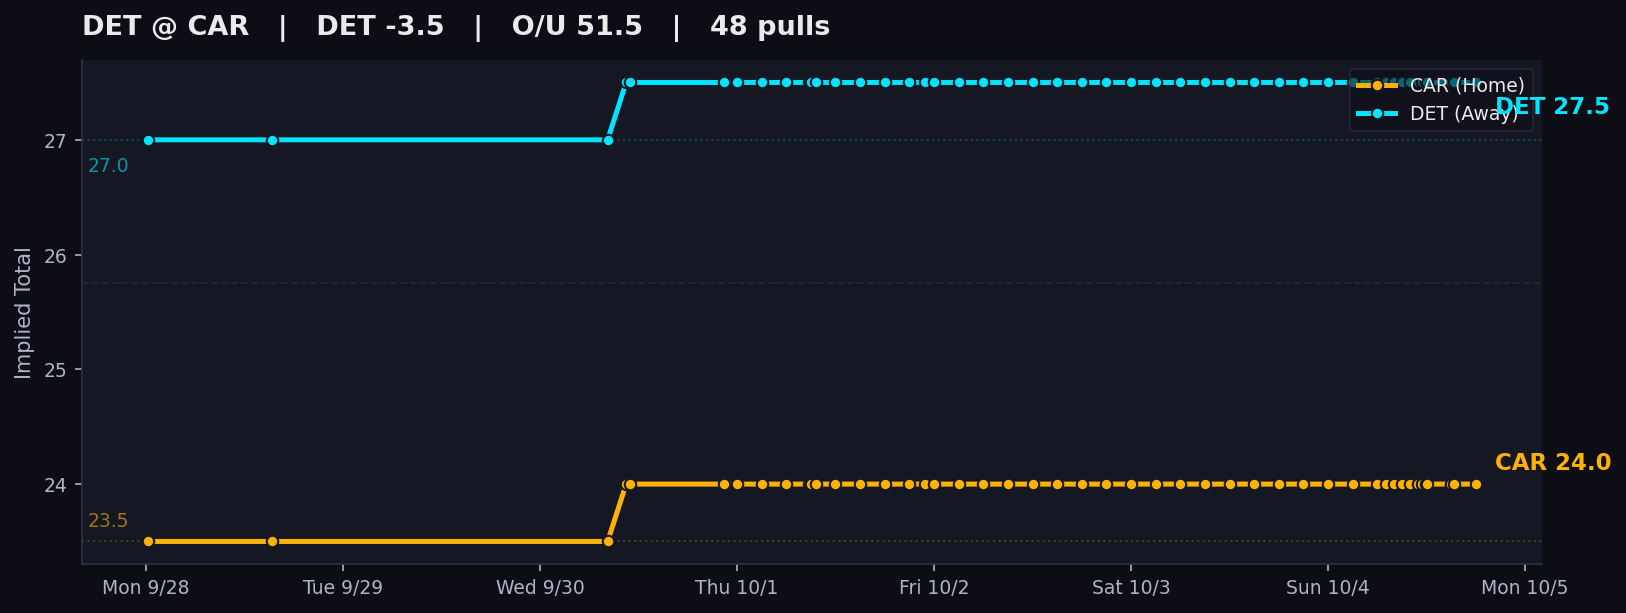
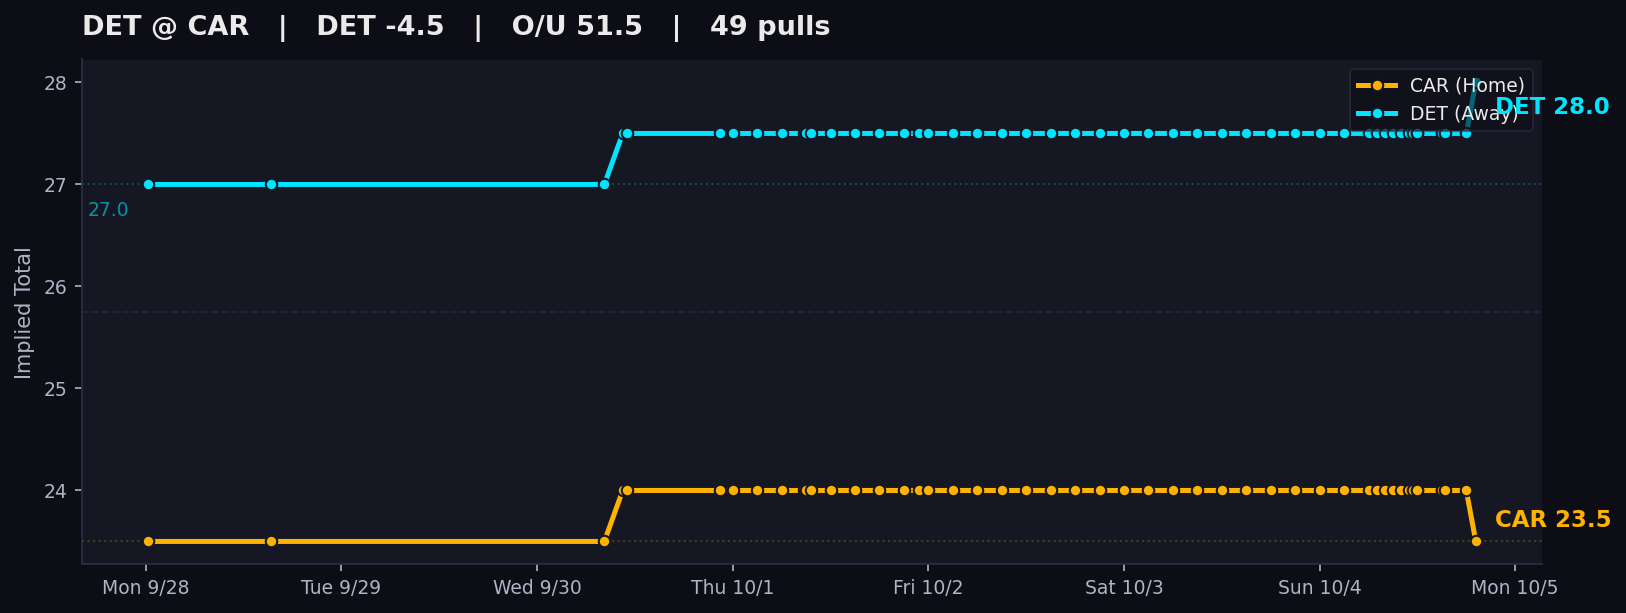
auto: local tracker sync

diff --git a/charts/index.html b/charts/index.html
@@ -311,7 +311,7 @@
     </div>
     <p class='sub'>
       DraftKings main lines &middot; Pinnacle cross-check &middot; Updated by the local Mac tracker<br>
-      Page rendered Sun Oct 04, 2026 6:00 PM CDT &middot; 752 valid chart dots &middot; 901 total pull attempts
+      Page rendered Sun Oct 04, 2026 7:10 PM CDT &middot; 754 valid chart dots &middot; 903 total pull attempts
       <span class='legend-box'>
         <span class='dot-teal'>● Away implied total</span>
         <span class='dot-amber'>● Home implied total</span>
@@ -324,9 +324,9 @@
     </details>
   </header>
 
-  <div id='feed-banner' class='alert-banner healthy' data-banner-kind='healthy' data-feed-ts='2026-10-04T23:00:05.924154+00:00' data-feed-ts-label='Sun Oct 04, 6:00 PM CDT'>
+  <div id='feed-banner' class='alert-banner healthy' data-banner-kind='healthy' data-feed-ts='2026-10-05T00:10:01.073178+00:00' data-feed-ts-label='Sun Oct 04, 7:10 PM CDT'>
             <span class='status-dot'></span>
-            <b>Feed Healthy:</b> All 2 open markets updated. 14 games have started and is showing its final verified pregame line. Board age based on oldest open market: <span id='feed-time'>Sun Oct 04, 6:00 PM CDT</span> (<span id='feed-age-dynamic'>just now</span>).
+            <b>Feed Healthy:</b> All 2 open markets updated. 14 games have started and is showing its final verified pregame line. Board age based on oldest open market: <span id='feed-time'>Sun Oct 04, 7:10 PM CDT</span> (<span id='feed-age-dynamic'>just now</span>).
         </div>
 
   <nav class='filter-bar' aria-label='Filter games by slate'>
@@ -396,7 +396,7 @@
                 <div><span>Last valid pull</span><strong>Thu 6:00 PM CT</strong></div>
                 <div><span>Chart dots</span><strong>20</strong></div>
             </div>
-                    <img class='expanded-chart' src='PIT_CLE.png?v=1791154825' alt='PIT at CLE line movement chart'>
+                    <img class='expanded-chart' src='PIT_CLE.png?v=1791159021' alt='PIT at CLE line movement chart'>
                     <p class='movement-note'>Total 38.5 → 37.5</p>
                 </div>
             </td>
@@ -437,7 +437,7 @@
                 <div><span>Last valid pull</span><strong>8:00 AM CT</strong></div>
                 <div><span>Chart dots</span><strong>46</strong></div>
             </div>
-                    <img class='expanded-chart' src='IND_WAS.png?v=1791154825' alt='IND at WAS line movement chart'>
+                    <img class='expanded-chart' src='IND_WAS.png?v=1791159021' alt='IND at WAS line movement chart'>
                     <p class='movement-note'>Spread IND -3.5 → -4.5</p>
                 </div>
             </td>
@@ -478,7 +478,7 @@
                 <div><span>Last valid pull</span><strong>12:00 PM CT</strong></div>
                 <div><span>Chart dots</span><strong>50</strong></div>
             </div>
-                    <img class='expanded-chart' src='ARI_NYG.png?v=1791154825' alt='ARI at NYG line movement chart'>
+                    <img class='expanded-chart' src='ARI_NYG.png?v=1791159021' alt='ARI at NYG line movement chart'>
                     <p class='movement-note'>Spread ARI +1.5 → -2.5; Total 43.5 → 44.5</p>
                 </div>
             </td>
@@ -513,7 +513,7 @@
                 <div><span>Last valid pull</span><strong>12:00 PM CT</strong></div>
                 <div><span>Chart dots</span><strong>48</strong></div>
             </div>
-                    <img class='expanded-chart' src='LAR_PHI.png?v=1791154825' alt='LAR at PHI line movement chart'>
+                    <img class='expanded-chart' src='LAR_PHI.png?v=1791159021' alt='LAR at PHI line movement chart'>
                     <p class='movement-note'>Spread LAR -2.5 → -3.5; Total 46.5 → 42.5</p>
                 </div>
             </td>
@@ -548,7 +548,7 @@
                 <div><span>Last valid pull</span><strong>12:00 PM CT</strong></div>
                 <div><span>Chart dots</span><strong>50</strong></div>
             </div>
-                    <img class='expanded-chart' src='GB_TB.png?v=1791154825' alt='GB at TB line movement chart'>
+                    <img class='expanded-chart' src='GB_TB.png?v=1791159021' alt='GB at TB line movement chart'>
                     <p class='movement-note'>Total 42.5 → 38.5</p>
                 </div>
             </td>
@@ -583,7 +583,7 @@
                 <div><span>Last valid pull</span><strong>12:00 PM CT</strong></div>
                 <div><span>Chart dots</span><strong>48</strong></div>
             </div>
-                    <img class='expanded-chart' src='TEN_BAL.png?v=1791154825' alt='TEN at BAL line movement chart'>
+                    <img class='expanded-chart' src='TEN_BAL.png?v=1791159021' alt='TEN at BAL line movement chart'>
                     <p class='movement-note'>Total 43.5 → 42.5</p>
                 </div>
             </td>
@@ -618,7 +618,7 @@
                 <div><span>Last valid pull</span><strong>12:00 PM CT</strong></div>
                 <div><span>Chart dots</span><strong>51</strong></div>
             </div>
-                    <img class='expanded-chart' src='NE_BUF.png?v=1791154825' alt='NE at BUF line movement chart'>
+                    <img class='expanded-chart' src='NE_BUF.png?v=1791159021' alt='NE at BUF line movement chart'>
                     <p class='movement-note'>Total 48.5 → 49.5</p>
                 </div>
             </td>
@@ -653,7 +653,7 @@
                 <div><span>Last valid pull</span><strong>12:00 PM CT</strong></div>
                 <div><span>Chart dots</span><strong>50</strong></div>
             </div>
-                    <img class='expanded-chart' src='JAX_CIN.png?v=1791154825' alt='JAX at CIN line movement chart'>
+                    <img class='expanded-chart' src='JAX_CIN.png?v=1791159021' alt='JAX at CIN line movement chart'>
                     <p class='movement-note'>Total 50.5 → 51.5</p>
                 </div>
             </td>
@@ -688,7 +688,7 @@
                 <div><span>Last valid pull</span><strong>12:00 PM CT</strong></div>
                 <div><span>Chart dots</span><strong>50</strong></div>
             </div>
-                    <img class='expanded-chart' src='DAL_HOU.png?v=1791154825' alt='DAL at HOU line movement chart'>
+                    <img class='expanded-chart' src='DAL_HOU.png?v=1791159021' alt='DAL at HOU line movement chart'>
                     <p class='movement-note'>Spread HOU -2.5 → -3.0; Total 47.5 → 48.5</p>
                 </div>
             </td>
@@ -723,7 +723,7 @@
                 <div><span>Last valid pull</span><strong>12:00 PM CT</strong></div>
                 <div><span>Chart dots</span><strong>50</strong></div>
             </div>
-                    <img class='expanded-chart' src='NYJ_CHI.png?v=1791154825' alt='NYJ at CHI line movement chart'>
+                    <img class='expanded-chart' src='NYJ_CHI.png?v=1791159021' alt='NYJ at CHI line movement chart'>
                     <p class='movement-note'>Spread CHI -3.0 → -3.5; Total 42.5 → 43.5</p>
                 </div>
             </td>
@@ -764,7 +764,7 @@
                 <div><span>Last valid pull</span><strong>3:00 PM CT</strong></div>
                 <div><span>Chart dots</span><strong>49</strong></div>
             </div>
-                    <img class='expanded-chart' src='MIA_MIN.png?v=1791154825' alt='MIA at MIN line movement chart'>
+                    <img class='expanded-chart' src='MIA_MIN.png?v=1791159021' alt='MIA at MIN line movement chart'>
                     <p class='movement-note'>Total 39.5 → 38.5</p>
                 </div>
             </td>
@@ -799,7 +799,7 @@
                 <div><span>Last valid pull</span><strong>3:20 PM CT</strong></div>
                 <div><span>Chart dots</span><strong>50</strong></div>
             </div>
-                    <img class='expanded-chart' src='DEN_SF.png?v=1791154825' alt='DEN at SF line movement chart'>
+                    <img class='expanded-chart' src='DEN_SF.png?v=1791159021' alt='DEN at SF line movement chart'>
                     <p class='movement-note'>Total 46.5 → 47.5</p>
                 </div>
             </td>
@@ -834,7 +834,7 @@
                 <div><span>Last valid pull</span><strong>3:20 PM CT</strong></div>
                 <div><span>Chart dots</span><strong>47</strong></div>
             </div>
-                    <img class='expanded-chart' src='KC_LVR.png?v=1791154825' alt='KC at LVR line movement chart'>
+                    <img class='expanded-chart' src='KC_LVR.png?v=1791159021' alt='KC at LVR line movement chart'>
                     <p class='movement-note'>Spread KC -5.5 → -4.5</p>
                 </div>
             </td>
@@ -869,7 +869,7 @@
                 <div><span>Last valid pull</span><strong>3:20 PM CT</strong></div>
                 <div><span>Chart dots</span><strong>47</strong></div>
             </div>
-                    <img class='expanded-chart' src='LAC_SEA.png?v=1791154825' alt='LAC at SEA line movement chart'>
+                    <img class='expanded-chart' src='LAC_SEA.png?v=1791159021' alt='LAC at SEA line movement chart'>
                     <p class='movement-note'>Spread SEA -6.5 → -7.0; Total 43.5 → 42.5</p>
                 </div>
             </td>
@@ -882,16 +882,16 @@
             </tr><tr class='game-row ' data-slate='SNF' data-game='DET_CAR' data-toggle-game='DET_CAR' tabindex='0' role='button' aria-expanded='false' aria-controls='desktop-panel-DET_CAR'>
             <td class='mu'>DET @ <b>CAR</b><span class='view-chart'>View chart <span class='chevron'>⌄</span></span></td>
             <td>DET -3.5</td>
-            <td><b>DET -3.5</b></td>
-            <td class='flat'>--</td>
+            <td><b>DET -4.5</b></td>
+            <td class='delta'><span class='movement-badge significant'>1.0</span></td>
             <td>50.5</td>
             <td><b>51.5</b></td>
             <td class='delta'><span class='movement-badge'>1.0</span></td>
-            <td class='it-away'>DET 27.5</td>
-            <td class='it-home'>CAR 24.0</td>
-            <td class='reason' title='Total 50.5 → 51.5'>Total 50.5 → 51.5</td>
-            <td style='text-align:center;'><span class='pill-fresh'>6:00 PM CT</span></td>
-            <td class='snaps'>48</td>
+            <td class='it-away'>DET 28.0</td>
+            <td class='it-home'>CAR 23.5</td>
+            <td class='reason' title='Spread DET -3.5 → -4.5; Total 50.5 → 51.5'>Spread DET -3.5 → -4.5; Total 50.5 → 51.5</td>
+            <td style='text-align:center;'><span class='pill-fresh'>7:10 PM CT</span></td>
+            <td class='snaps'>49</td>
         </tr>
         <tr id='desktop-panel-DET_CAR' class='chart-detail-row' data-slate='SNF' data-game-panel='DET_CAR' hidden>
             <td colspan='12'>
@@ -902,16 +902,16 @@
                     </div>
                     <div class='detail-stats'>
                 <div><span>Opening spread</span><strong>DET -3.5</strong></div>
-                <div><span>Current spread</span><strong>DET -3.5</strong></div>
+                <div><span>Current spread</span><strong>DET -4.5</strong></div>
                 <div><span>Opening total</span><strong>50.5</strong></div>
                 <div><span>Current total</span><strong>51.5</strong></div>
-                <div><span>Away implied</span><strong class='it-away'>DET 27.5</strong></div>
-                <div><span>Home implied</span><strong class='it-home'>CAR 24.0</strong></div>
-                <div><span>Last valid pull</span><strong>6:00 PM CT</strong></div>
-                <div><span>Chart dots</span><strong>48</strong></div>
+                <div><span>Away implied</span><strong class='it-away'>DET 28.0</strong></div>
+                <div><span>Home implied</span><strong class='it-home'>CAR 23.5</strong></div>
+                <div><span>Last valid pull</span><strong>7:10 PM CT</strong></div>
+                <div><span>Chart dots</span><strong>49</strong></div>
             </div>
-                    <img class='expanded-chart' src='DET_CAR.png?v=1791154825' alt='DET at CAR line movement chart'>
-                    <p class='movement-note'>Total 50.5 → 51.5</p>
+                    <img class='expanded-chart' src='DET_CAR.png?v=1791159021' alt='DET at CAR line movement chart'>
+                    <p class='movement-note'>Spread DET -3.5 → -4.5; Total 50.5 → 51.5</p>
                 </div>
             </td>
         </tr><tr class='slate-sep-row' data-slate='MNF'>
@@ -931,8 +931,8 @@
             <td class='it-away'>ATL 22.5</td>
             <td class='it-home'>NO 25.0</td>
             <td class='reason' title='Total 48.5 → 47.5'>Total 48.5 → 47.5</td>
-            <td style='text-align:center;'><span class='pill-fresh'>6:00 PM CT</span></td>
-            <td class='snaps'>48</td>
+            <td style='text-align:center;'><span class='pill-fresh'>7:10 PM CT</span></td>
+            <td class='snaps'>49</td>
         </tr>
         <tr id='desktop-panel-ATL_NO' class='chart-detail-row' data-slate='MNF' data-game-panel='ATL_NO' hidden>
             <td colspan='12'>
@@ -948,10 +948,10 @@
                 <div><span>Current total</span><strong>47.5</strong></div>
                 <div><span>Away implied</span><strong class='it-away'>ATL 22.5</strong></div>
                 <div><span>Home implied</span><strong class='it-home'>NO 25.0</strong></div>
-                <div><span>Last valid pull</span><strong>6:00 PM CT</strong></div>
-                <div><span>Chart dots</span><strong>48</strong></div>
+                <div><span>Last valid pull</span><strong>7:10 PM CT</strong></div>
+                <div><span>Chart dots</span><strong>49</strong></div>
             </div>
-                    <img class='expanded-chart' src='ATL_NO.png?v=1791154825' alt='ATL at NO line movement chart'>
+                    <img class='expanded-chart' src='ATL_NO.png?v=1791159021' alt='ATL at NO line movement chart'>
                     <p class='movement-note'>Total 48.5 → 47.5</p>
                 </div>
             </td>
@@ -986,7 +986,7 @@
                 <div><span>Last valid pull</span><strong>Thu 6:00 PM CT</strong></div>
                 <div><span>Chart dots</span><strong>20</strong></div>
             </div>
-                <img class='expanded-chart' src='PIT_CLE.png?v=1791154825' alt='PIT at CLE line movement chart'>
+                <img class='expanded-chart' src='PIT_CLE.png?v=1791159021' alt='PIT at CLE line movement chart'>
                 <p class='pull-note'><span class='pull-dot'></span> Every dot is a valid completed pull · 20 chart dots</p>
             </div>
         </article><article class='mobile-game-card closed-game' data-slate='OTHER_PRIMETIME' data-game='IND_WAS'>
@@ -1013,7 +1013,7 @@
                 <div><span>Last valid pull</span><strong>8:00 AM CT</strong></div>
                 <div><span>Chart dots</span><strong>46</strong></div>
             </div>
-                <img class='expanded-chart' src='IND_WAS.png?v=1791154825' alt='IND at WAS line movement chart'>
+                <img class='expanded-chart' src='IND_WAS.png?v=1791159021' alt='IND at WAS line movement chart'>
                 <p class='pull-note'><span class='pull-dot'></span> Every dot is a valid completed pull · 46 chart dots</p>
             </div>
         </article><article class='mobile-game-card closed-game' data-slate='SUN_EARLY' data-game='ARI_NYG'>
@@ -1040,7 +1040,7 @@
                 <div><span>Last valid pull</span><strong>12:00 PM CT</strong></div>
                 <div><span>Chart dots</span><strong>50</strong></div>
             </div>
-                <img class='expanded-chart' src='ARI_NYG.png?v=1791154825' alt='ARI at NYG line movement chart'>
+                <img class='expanded-chart' src='ARI_NYG.png?v=1791159021' alt='ARI at NYG line movement chart'>
                 <p class='pull-note'><span class='pull-dot'></span> Every dot is a valid completed pull · 50 chart dots</p>
             </div>
         </article><article class='mobile-game-card closed-game' data-slate='SUN_EARLY' data-game='LAR_PHI'>
@@ -1067,7 +1067,7 @@
                 <div><span>Last valid pull</span><strong>12:00 PM CT</strong></div>
                 <div><span>Chart dots</span><strong>48</strong></div>
             </div>
-                <img class='expanded-chart' src='LAR_PHI.png?v=1791154825' alt='LAR at PHI line movement chart'>
+                <img class='expanded-chart' src='LAR_PHI.png?v=1791159021' alt='LAR at PHI line movement chart'>
                 <p class='pull-note'><span class='pull-dot'></span> Every dot is a valid completed pull · 48 chart dots</p>
             </div>
         </article><article class='mobile-game-card closed-game' data-slate='SUN_EARLY' data-game='GB_TB'>
@@ -1094,7 +1094,7 @@
                 <div><span>Last valid pull</span><strong>12:00 PM CT</strong></div>
                 <div><span>Chart dots</span><strong>50</strong></div>
             </div>
-                <img class='expanded-chart' src='GB_TB.png?v=1791154825' alt='GB at TB line movement chart'>
+                <img class='expanded-chart' src='GB_TB.png?v=1791159021' alt='GB at TB line movement chart'>
                 <p class='pull-note'><span class='pull-dot'></span> Every dot is a valid completed pull · 50 chart dots</p>
             </div>
         </article><article class='mobile-game-card closed-game' data-slate='SUN_EARLY' data-game='TEN_BAL'>
@@ -1121,7 +1121,7 @@
                 <div><span>Last valid pull</span><strong>12:00 PM CT</strong></div>
                 <div><span>Chart dots</span><strong>48</strong></div>
             </div>
-                <img class='expanded-chart' src='TEN_BAL.png?v=1791154825' alt='TEN at BAL line movement chart'>
+                <img class='expanded-chart' src='TEN_BAL.png?v=1791159021' alt='TEN at BAL line movement chart'>
                 <p class='pull-note'><span class='pull-dot'></span> Every dot is a valid completed pull · 48 chart dots</p>
             </div>
         </article><article class='mobile-game-card closed-game' data-slate='SUN_EARLY' data-game='NE_BUF'>
@@ -1148,7 +1148,7 @@
                 <div><span>Last valid pull</span><strong>12:00 PM CT</strong></div>
                 <div><span>Chart dots</span><strong>51</strong></div>
             </div>
-                <img class='expanded-chart' src='NE_BUF.png?v=1791154825' alt='NE at BUF line movement chart'>
+                <img class='expanded-chart' src='NE_BUF.png?v=1791159021' alt='NE at BUF line movement chart'>
                 <p class='pull-note'><span class='pull-dot'></span> Every dot is a valid completed pull · 51 chart dots</p>
             </div>
         </article><article class='mobile-game-card closed-game' data-slate='SUN_EARLY' data-game='JAX_CIN'>
@@ -1175,7 +1175,7 @@
                 <div><span>Last valid pull</span><strong>12:00 PM CT</strong></div>
                 <div><span>Chart dots</span><strong>50</strong></div>
             </div>
-                <img class='expanded-chart' src='JAX_CIN.png?v=1791154825' alt='JAX at CIN line movement chart'>
+                <img class='expanded-chart' src='JAX_CIN.png?v=1791159021' alt='JAX at CIN line movement chart'>
                 <p class='pull-note'><span class='pull-dot'></span> Every dot is a valid completed pull · 50 chart dots</p>
             </div>
         </article><article class='mobile-game-card closed-game' data-slate='SUN_EARLY' data-game='DAL_HOU'>
@@ -1202,7 +1202,7 @@
                 <div><span>Last valid pull</span><strong>12:00 PM CT</strong></div>
                 <div><span>Chart dots</span><strong>50</strong></div>
             </div>
-                <img class='expanded-chart' src='DAL_HOU.png?v=1791154825' alt='DAL at HOU line movement chart'>
+                <img class='expanded-chart' src='DAL_HOU.png?v=1791159021' alt='DAL at HOU line movement chart'>
                 <p class='pull-note'><span class='pull-dot'></span> Every dot is a valid completed pull · 50 chart dots</p>
             </div>
         </article><article class='mobile-game-card closed-game' data-slate='SUN_EARLY' data-game='NYJ_CHI'>
@@ -1229,7 +1229,7 @@
                 <div><span>Last valid pull</span><strong>12:00 PM CT</strong></div>
                 <div><span>Chart dots</span><strong>50</strong></div>
             </div>
-                <img class='expanded-chart' src='NYJ_CHI.png?v=1791154825' alt='NYJ at CHI line movement chart'>
+                <img class='expanded-chart' src='NYJ_CHI.png?v=1791159021' alt='NYJ at CHI line movement chart'>
                 <p class='pull-note'><span class='pull-dot'></span> Every dot is a valid completed pull · 50 chart dots</p>
             </div>
         </article><article class='mobile-game-card closed-game' data-slate='SUN_LATE' data-game='MIA_MIN'>
@@ -1256,7 +1256,7 @@
                 <div><span>Last valid pull</span><strong>3:00 PM CT</strong></div>
                 <div><span>Chart dots</span><strong>49</strong></div>
             </div>
-                <img class='expanded-chart' src='MIA_MIN.png?v=1791154825' alt='MIA at MIN line movement chart'>
+                <img class='expanded-chart' src='MIA_MIN.png?v=1791159021' alt='MIA at MIN line movement chart'>
                 <p class='pull-note'><span class='pull-dot'></span> Every dot is a valid completed pull · 49 chart dots</p>
             </div>
         </article><article class='mobile-game-card closed-game' data-slate='SUN_LATE' data-game='DEN_SF'>
@@ -1283,7 +1283,7 @@
                 <div><span>Last valid pull</span><strong>3:20 PM CT</strong></div>
                 <div><span>Chart dots</span><strong>50</strong></div>
             </div>
-                <img class='expanded-chart' src='DEN_SF.png?v=1791154825' alt='DEN at SF line movement chart'>
+                <img class='expanded-chart' src='DEN_SF.png?v=1791159021' alt='DEN at SF line movement chart'>
                 <p class='pull-note'><span class='pull-dot'></span> Every dot is a valid completed pull · 50 chart dots</p>
             </div>
         </article><article class='mobile-game-card closed-game' data-slate='SUN_LATE' data-game='KC_LVR'>
@@ -1310,7 +1310,7 @@
                 <div><span>Last valid pull</span><strong>3:20 PM CT</strong></div>
                 <div><span>Chart dots</span><strong>47</strong></div>
             </div>
-                <img class='expanded-chart' src='KC_LVR.png?v=1791154825' alt='KC at LVR line movement chart'>
+                <img class='expanded-chart' src='KC_LVR.png?v=1791159021' alt='KC at LVR line movement chart'>
                 <p class='pull-note'><span class='pull-dot'></span> Every dot is a valid completed pull · 47 chart dots</p>
             </div>
         </article><article class='mobile-game-card closed-game' data-slate='SUN_LATE' data-game='LAC_SEA'>
@@ -1337,7 +1337,7 @@
                 <div><span>Last valid pull</span><strong>3:20 PM CT</strong></div>
                 <div><span>Chart dots</span><strong>47</strong></div>
             </div>
-                <img class='expanded-chart' src='LAC_SEA.png?v=1791154825' alt='LAC at SEA line movement chart'>
+                <img class='expanded-chart' src='LAC_SEA.png?v=1791159021' alt='LAC at SEA line movement chart'>
                 <p class='pull-note'><span class='pull-dot'></span> Every dot is a valid completed pull · 47 chart dots</p>
             </div>
         </article><article class='mobile-game-card ' data-slate='SNF' data-game='DET_CAR'>
@@ -1345,10 +1345,10 @@
                 <span class='mobile-game-main'>
                     <span class='mobile-slate'>SUNDAY NIGHT FOOTBALL</span>
                     <strong>DET @ CAR</strong>
-                    <span>Total 50.5 → 51.5</span>
+                    <span>Spread DET -3.5 → -4.5; Total 50.5 → 51.5</span>
                 </span>
                 <span class='mobile-current'>
-                    <strong>DET -3.5</strong>
+                    <strong>DET -4.5</strong>
                     <strong>O/U 51.5</strong>
                     <span class='chevron'>⌄</span>
                 </span>
@@ -1356,16 +1356,16 @@
             <div id='mobile-panel-DET_CAR' class='mobile-detail' data-game-panel='DET_CAR' hidden>
                 <div class='detail-stats'>
                 <div><span>Opening spread</span><strong>DET -3.5</strong></div>
-                <div><span>Current spread</span><strong>DET -3.5</strong></div>
+                <div><span>Current spread</span><strong>DET -4.5</strong></div>
                 <div><span>Opening total</span><strong>50.5</strong></div>
                 <div><span>Current total</span><strong>51.5</strong></div>
-                <div><span>Away implied</span><strong class='it-away'>DET 27.5</strong></div>
-                <div><span>Home implied</span><strong class='it-home'>CAR 24.0</strong></div>
-                <div><span>Last valid pull</span><strong>6:00 PM CT</strong></div>
-                <div><span>Chart dots</span><strong>48</strong></div>
+                <div><span>Away implied</span><strong class='it-away'>DET 28.0</strong></div>
+                <div><span>Home implied</span><strong class='it-home'>CAR 23.5</strong></div>
+                <div><span>Last valid pull</span><strong>7:10 PM CT</strong></div>
+                <div><span>Chart dots</span><strong>49</strong></div>
             </div>
-                <img class='expanded-chart' src='DET_CAR.png?v=1791154825' alt='DET at CAR line movement chart'>
-                <p class='pull-note'><span class='pull-dot'></span> Every dot is a valid completed pull · 48 chart dots</p>
+                <img class='expanded-chart' src='DET_CAR.png?v=1791159021' alt='DET at CAR line movement chart'>
+                <p class='pull-note'><span class='pull-dot'></span> Every dot is a valid completed pull · 49 chart dots</p>
             </div>
         </article><article class='mobile-game-card ' data-slate='MNF' data-game='ATL_NO'>
             <button class='mobile-game-summary' type='button' data-toggle-game='ATL_NO' aria-expanded='false' aria-controls='mobile-panel-ATL_NO'>
@@ -1388,11 +1388,11 @@
                 <div><span>Current total</span><strong>47.5</strong></div>
                 <div><span>Away implied</span><strong class='it-away'>ATL 22.5</strong></div>
                 <div><span>Home implied</span><strong class='it-home'>NO 25.0</strong></div>
-                <div><span>Last valid pull</span><strong>6:00 PM CT</strong></div>
-                <div><span>Chart dots</span><strong>48</strong></div>
+                <div><span>Last valid pull</span><strong>7:10 PM CT</strong></div>
+                <div><span>Chart dots</span><strong>49</strong></div>
             </div>
-                <img class='expanded-chart' src='ATL_NO.png?v=1791154825' alt='ATL at NO line movement chart'>
-                <p class='pull-note'><span class='pull-dot'></span> Every dot is a valid completed pull · 48 chart dots</p>
+                <img class='expanded-chart' src='ATL_NO.png?v=1791159021' alt='ATL at NO line movement chart'>
+                <p class='pull-note'><span class='pull-dot'></span> Every dot is a valid completed pull · 49 chart dots</p>
             </div>
         </article>
   </section>
